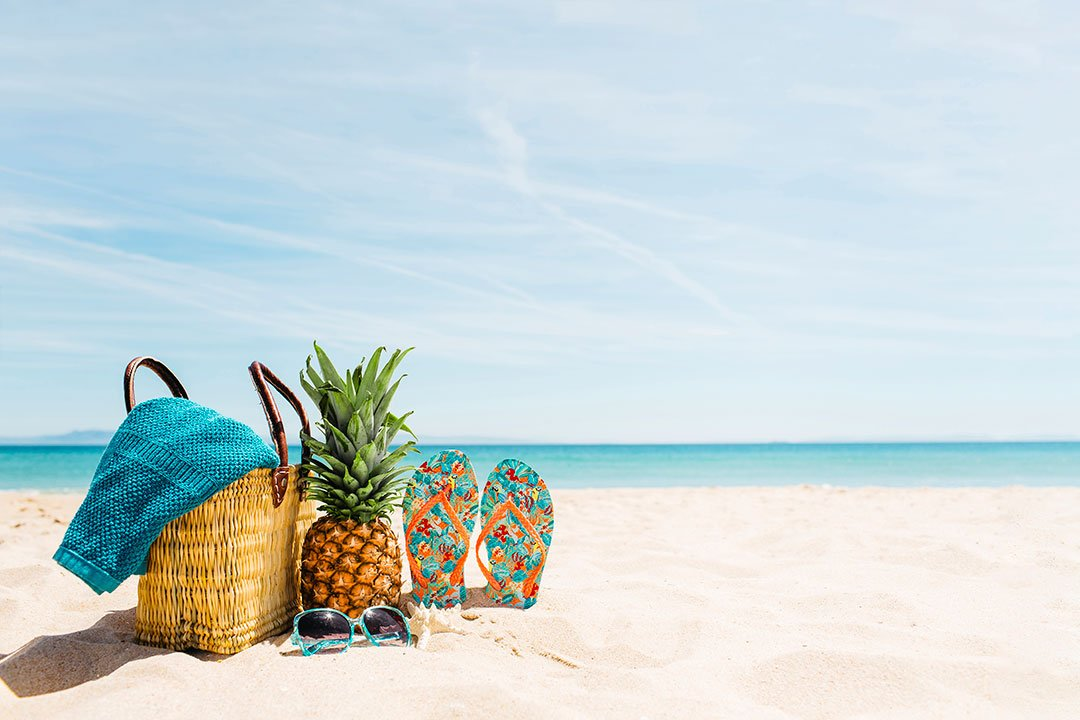
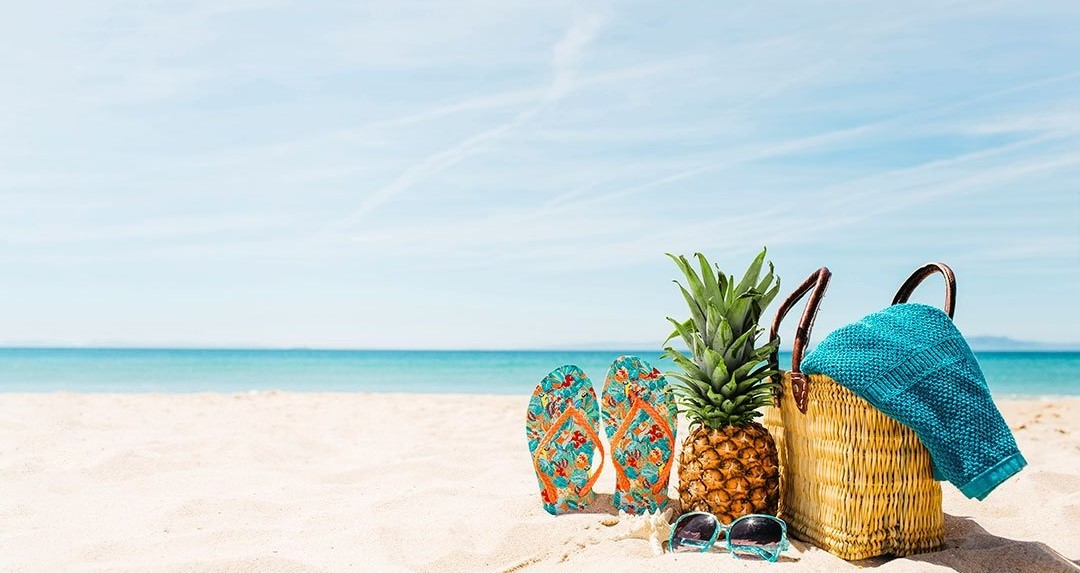
more edits

diff --git a/travel_recommendation.css b/travel_recommendation.css
@@ -5,52 +5,81 @@
     padding: 0;
     box-sizing: border-box;
 }
-nav {
-    background-color: #ffffff;
-    padding: 20px;
+  
+body {
+    font-family: Arial, sans-serif;
+    background-image: url("vacation.jpg");
+    background-size:     cover;     
+    background-repeat:   no-repeat;
+}
+
+.main {
+    font-family: Arial, sans-serif;
+    background-size:     cover;     
+    background-repeat:   no-repeat;
+}
+
+.navbar {
+    height: 75px;
+    width: 1200px;
+    margin: auto;
     display: flex;
     align-items: center;
     justify-content: space-between;
-    
-  }
-  
-  nav ul {
-    list-style-type: none;
-    /* padding: 0; */
-  }
-  
-  nav ul li {
-    display: inline;
-    margin-right: 10px;
-  }
-  
-  nav a {
-    text-decoration: none;
-    color: rgb(255, 255, 255);
-    font-weight: bold;
-  }
-  
-  /* Basic CSS for the form elements */
-  body {
-    font-family: Arial, sans-serif;
-    background-image: url("vacation.jpg");
-    background-size: 100%;
+}
 
+.icon {
+    width: 200px;
+    float: left;
+    height: 70px;
+    padding: 5px;
+}
+
+.icon h1 {
+    color: #0488A1;
+    font-size: 35px;
+    font-family: Arial, Helvetica, sans-serif;
+    padding-left: 20px;
+    letter-spacing: 1px;
+    float: left;
+}
+
+.menu {
+    width: 400px;
+    float: left;
+    height: 70px;
+}
+
+.menu ul {
+    float: left;
+    display: flex;
+    justify-content: center;
+    align-items: center;
+}
+
+.menu ul li {
+    list-style: none;
+    margin-left: 62px;
+    font-size: 16px;
+    margin-top: 22px;
   }
-  
-  h1 {
-    margin-bottom: 20px;
+  .menu ul li a {
+    text-decoration: none;
+    color: #0488A1;
+    font-family: Arial, Helvetica, sans-serif;
+    font-weight: bold;
+    transition: 0.4s ease-in-out;
   }
-  
-  div {
-    margin-bottom: 10px;
+    
+  ul li a:hover {
+    color: #FB6D2B;
   }
-  
-  label {
-    display: inline-block;
-    width: 100px;
-  }
-  
+
+
+
+
+  /* Basic CSS for the form elements */
+   
   input[type="text"],
   input[type="number"],
   select {
@@ -60,36 +89,11 @@ nav {
   
   button {
     padding: 7px 15px;
-    background-color: #4CAF50;
+    background-color: #0488A1;
     color: white;
     border: none;
     cursor: pointer;
   }
   
-  button:hover {
-    background-color: #45a049;
-  }
   
-  /* Basic CSS for the report section */
-  h2 {
-    margin-top: 30px;
-  }
-  
-  #report,#result {
-    padding: 10px;
-    max-width: 400px;
-    word-wrap: break-word;
-  }
-#result{
-  height: 400px;
-  width: 500px;
-  display: flex;
-  align-items: center;
-  justify-content: space-around;
-  flex-direction: column;
-}
-  #result img{
-    width: 200px;
-    height: 100px;
-  }
-  
+ 

diff --git a/travel_recommendation.html b/travel_recommendation.html
@@ -5,17 +5,36 @@
   <link rel="stylesheet" href="./travel_recommendation.css">
 </head>
 <body>
-   <nav><h1>TravelTip</h1>
-    <ul>
-        <li><a href="./travel_recommendation.html">Home</a></li>
-        <li><a href="./travel_recommendation.html">About Us</a></li>
-        <li><a href="./travel_recommendation.html">Contact Us</a></li>
-        <li><input type="text" id="destenationInput" placeholder="Enter a destenation">  </li>
-        <li><button id='btnSearch'>Search</button></li>
-        <li><button id='btnReset'>Reset</button></li>
-    </ul>
-    </nav>
+    <div class = "main">
+        <div class = "navlbar">
+            <div class = "icon">
+                <h1>TravelTip</h1>
+            </div>
+            <div class = "menu">    
+                <ul>
+                    <li><a href="./travel_recommendation.html">Home</a></li>
+                    <li><a href="./travel_recommendation.html">About Us</a></li>
+                    <li><a href="./travel_recommendation.html">Contact Us</a></li>
+                </ul>
+            </div>
+        </div>
+        <div class= "search">
+            <input class = "srch" type="text" id="destenationInput" placeholder="Enter a destenation"> 
+            <button class= "btnSrch" id='btnSearch'>Search</button>
+            <button class= "btnRst" id='btnReset'>Reset</button>
+        </div>
+
+        <div class= "main">
+             <h1>Explore Dream Destination<br></h1>
+             <h2>It encourages exploration of unfamiliar <br>
+                territories, embracing diverse cultures and<br>
+                landspaces, while pursuing the desierd<br>
+                destination that captivates the heart and<br>
+                ignites a sense of wonder. </h2>
+        </div>
+    </div> 
     
+
    
 </body>
 </html>
